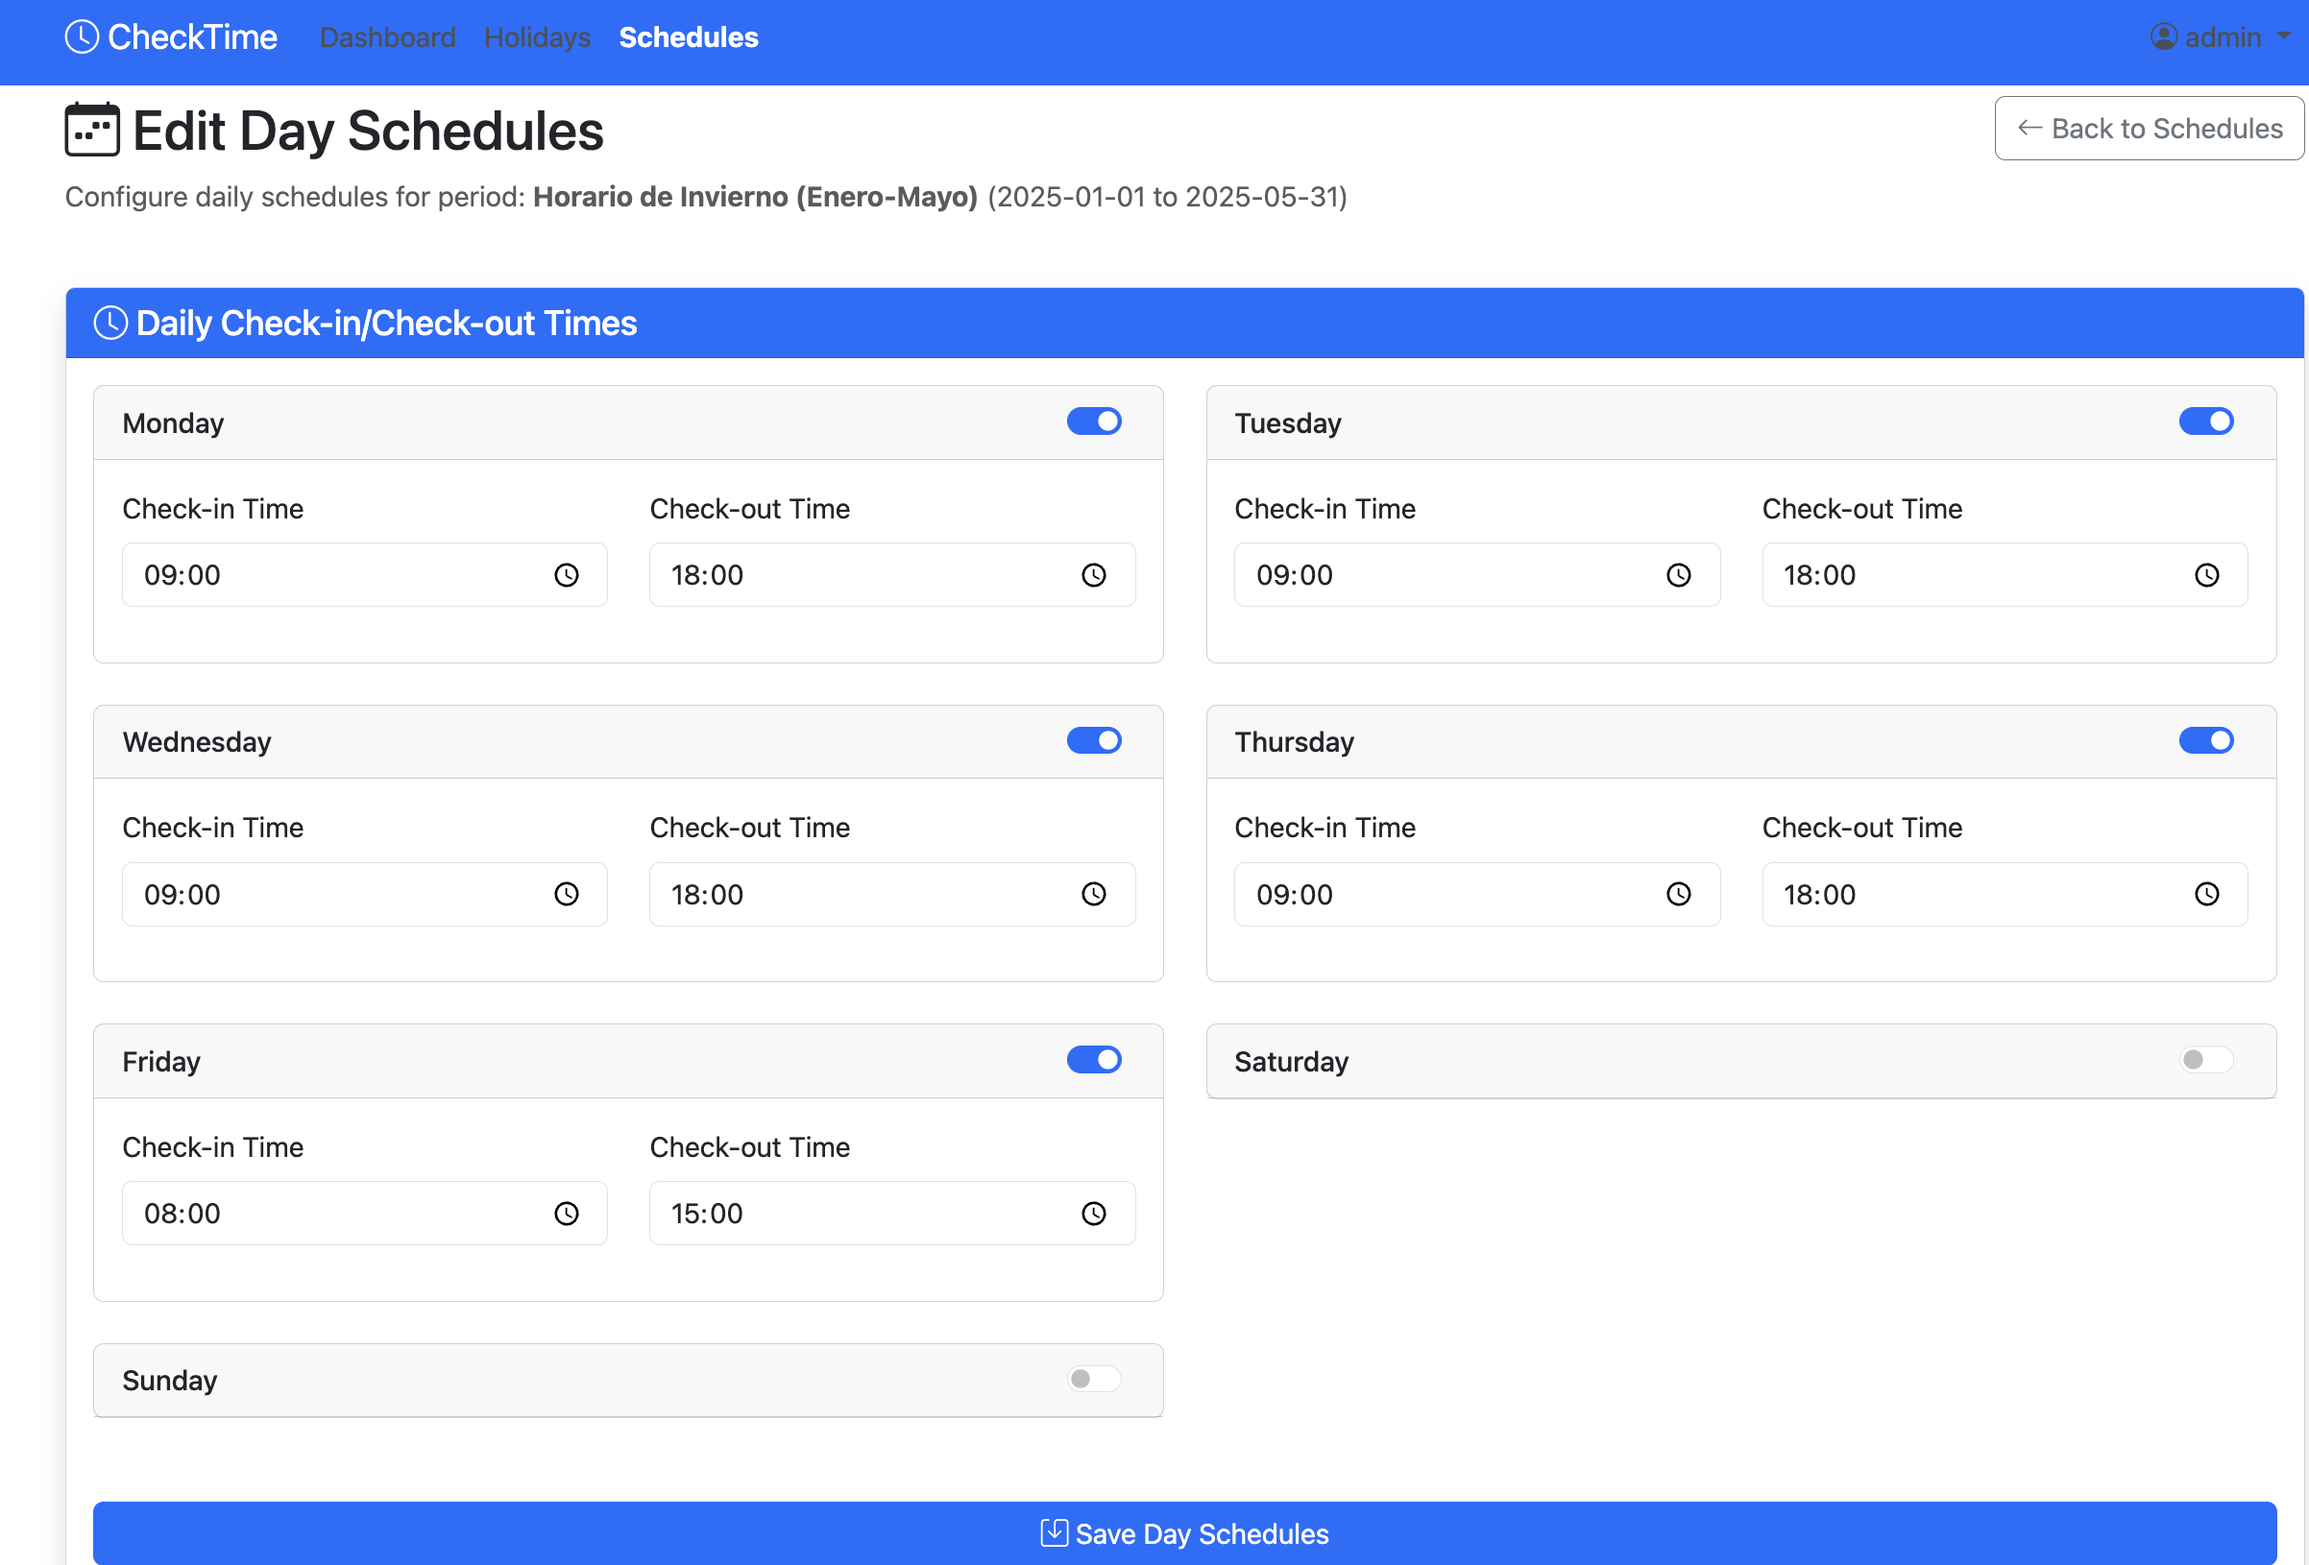
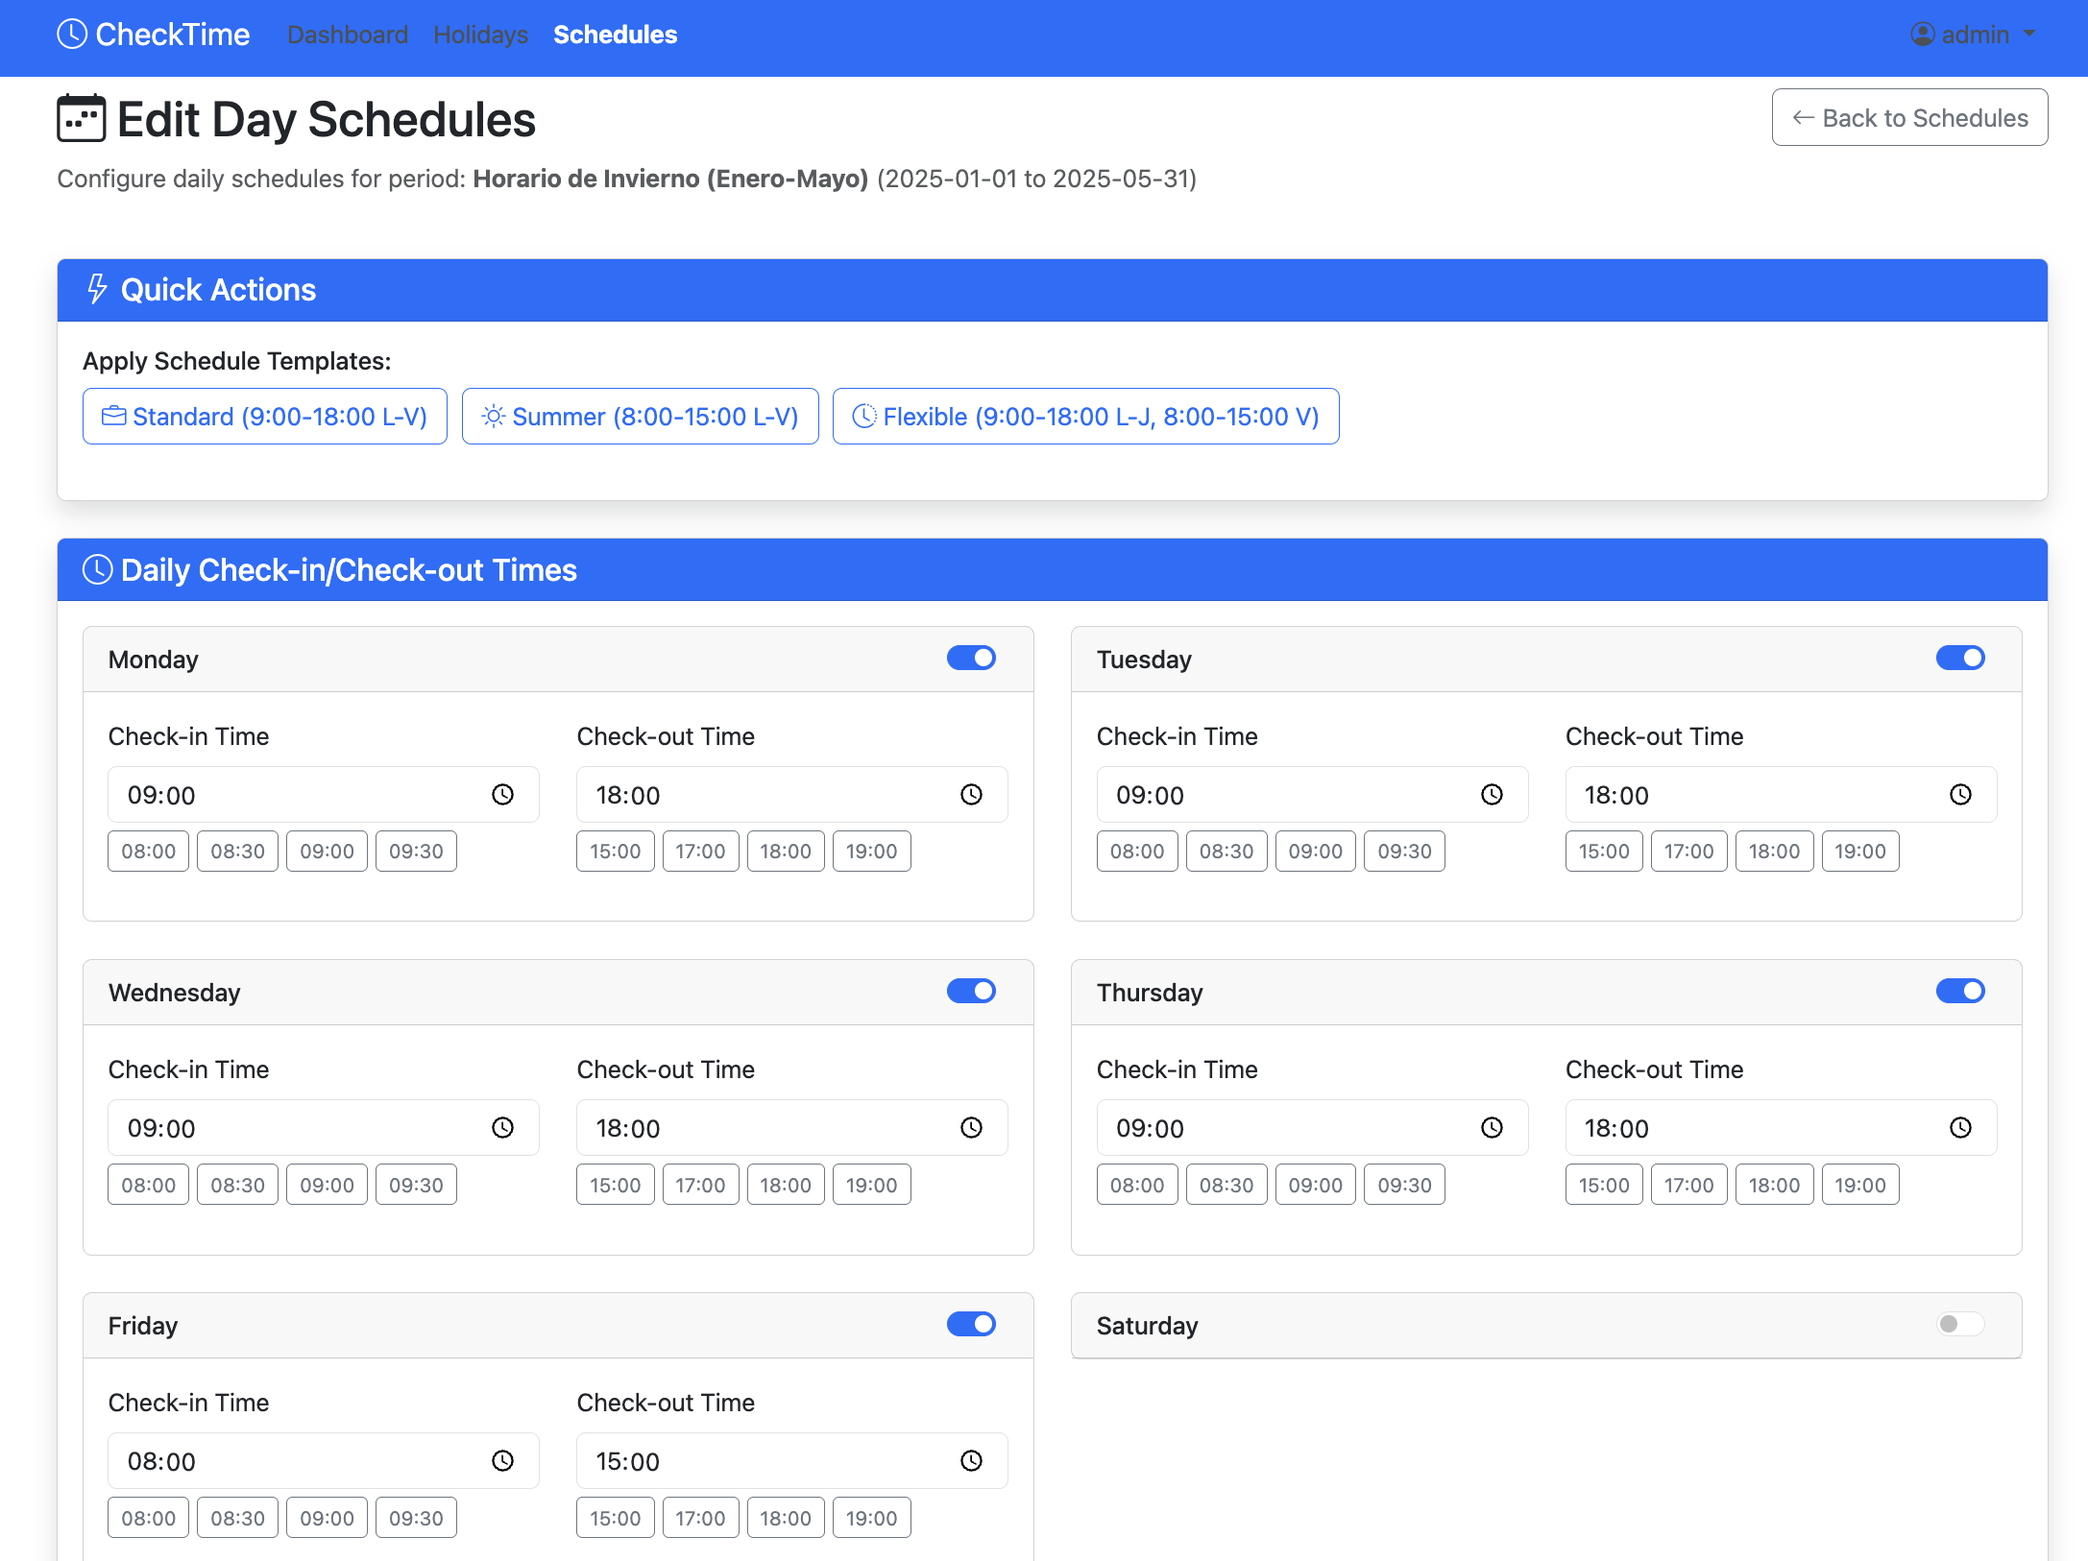
feat: enhance schedule editor with quick action buttons and time presets for check-in/check-out times

diff --git a/src/checktime/web/templates/schedules/edit_days.html b/src/checktime/web/templates/schedules/edit_days.html
@@ -2,6 +2,28 @@
 
 {% block title %}Edit Day Schedules - {{ super() }}{% endblock %}
 
+{% block styles %}
+<style>
+    .quick-actions {
+        margin-bottom: 15px;
+    }
+    .preset-btn {
+        margin-right: 5px;
+        margin-bottom: 5px;
+    }
+    .time-presets {
+        display: flex;
+        flex-wrap: wrap;
+        gap: 5px;
+        margin-top: 5px;
+    }
+    .time-preset-btn {
+        font-size: 0.8rem;
+        padding: 0.2rem 0.5rem;
+    }
+</style>
+{% endblock %}
+
 {% block content %}
 <div class="row mb-4">
     <div class="col">
@@ -20,6 +42,24 @@
 
 <div class="row">
     <div class="col-md-12">
+        <div class="card shadow mb-4">
+            <div class="card-header bg-primary text-white">
+                <h5 class="mb-0"><i class="bi bi-lightning"></i> Quick Actions</h5>
+            </div>
+            <div class="card-body quick-actions">
+                <h6>Apply Schedule Templates:</h6>
+                <button type="button" class="btn btn-outline-primary preset-btn" onclick="applyPreset('standard')">
+                    <i class="bi bi-briefcase"></i> Standard (9:00-18:00 L-V)
+                </button>
+                <button type="button" class="btn btn-outline-primary preset-btn" onclick="applyPreset('summer')">
+                    <i class="bi bi-sun"></i> Summer (8:00-15:00 L-V)
+                </button>
+                <button type="button" class="btn btn-outline-primary preset-btn" onclick="applyPreset('flexible')">
+                    <i class="bi bi-clock-history"></i> Flexible (9:00-18:00 L-J, 8:00-15:00 V)
+                </button>
+            </div>
+        </div>
+
         <div class="card shadow">
             <div class="card-header bg-primary text-white">
                 <h5 class="mb-0"><i class="bi bi-clock"></i> Daily Check-in/Check-out Times</h5>
@@ -48,12 +88,32 @@
                                             <input type="time" class="form-control" id="day_{{ day_idx }}_check_in" 
                                                    name="day_{{ day_idx }}_check_in" 
                                                    value="{{ day_schedules[day_idx].check_in_time if day_idx in day_schedules else '' }}">
+                                            <div class="time-presets">
+                                                <button type="button" class="btn btn-sm btn-outline-secondary time-preset-btn" 
+                                                        onclick="setTime('day_{{ day_idx }}_check_in', '08:00')">08:00</button>
+                                                <button type="button" class="btn btn-sm btn-outline-secondary time-preset-btn" 
+                                                        onclick="setTime('day_{{ day_idx }}_check_in', '08:30')">08:30</button>
+                                                <button type="button" class="btn btn-sm btn-outline-secondary time-preset-btn" 
+                                                        onclick="setTime('day_{{ day_idx }}_check_in', '09:00')">09:00</button>
+                                                <button type="button" class="btn btn-sm btn-outline-secondary time-preset-btn" 
+                                                        onclick="setTime('day_{{ day_idx }}_check_in', '09:30')">09:30</button>
+                                            </div>
                                         </div>
                                         <div class="col-md-6 mb-3">
                                             <label for="day_{{ day_idx }}_check_out" class="form-label">Check-out Time</label>
                                             <input type="time" class="form-control" id="day_{{ day_idx }}_check_out" 
                                                    name="day_{{ day_idx }}_check_out" 
                                                    value="{{ day_schedules[day_idx].check_out_time if day_idx in day_schedules else '' }}">
+                                            <div class="time-presets">
+                                                <button type="button" class="btn btn-sm btn-outline-secondary time-preset-btn" 
+                                                        onclick="setTime('day_{{ day_idx }}_check_out', '15:00')">15:00</button>
+                                                <button type="button" class="btn btn-sm btn-outline-secondary time-preset-btn" 
+                                                        onclick="setTime('day_{{ day_idx }}_check_out', '17:00')">17:00</button>
+                                                <button type="button" class="btn btn-sm btn-outline-secondary time-preset-btn" 
+                                                        onclick="setTime('day_{{ day_idx }}_check_out', '18:00')">18:00</button>
+                                                <button type="button" class="btn btn-sm btn-outline-secondary time-preset-btn" 
+                                                        onclick="setTime('day_{{ day_idx }}_check_out', '19:00')">19:00</button>
+                                            </div>
                                         </div>
                                     </div>
                                 </div>
@@ -63,7 +123,7 @@
                     </div>
                     
                     <div class="d-grid gap-2 mt-4">
-                        <button type="submit" class="btn btn-primary">
+                        <button type="submit" class="btn btn-primary btn-lg">
                             <i class="bi bi-save"></i> Save Day Schedules
                         </button>
                     </div>
@@ -90,6 +150,75 @@
         if (!checkbox.checked) {
             checkInInput.value = '';
             checkOutInput.value = '';
+        }
+    }
+
+    function setTime(inputId, timeValue) {
+        document.getElementById(inputId).value = timeValue;
+    }
+
+    function applySchedule(dayIndex, checkIn, checkOut) {
+        // Enable the day
+        const toggle = document.getElementById(`day_${dayIndex}_toggle`);
+        toggle.checked = true;
+        
+        // Show inputs
+        const inputs = document.getElementById(`day_${dayIndex}_inputs`);
+        inputs.style.display = 'block';
+        
+        // Set enabled flag
+        const enabled = document.getElementById(`day_${dayIndex}_enabled`);
+        enabled.value = 'on';
+        
+        // Set times
+        document.getElementById(`day_${dayIndex}_check_in`).value = checkIn;
+        document.getElementById(`day_${dayIndex}_check_out`).value = checkOut;
+    }
+
+    function applyPreset(presetName) {
+        switch (presetName) {
+            case 'standard':
+                // Standard workweek (9:00-18:00 Mon-Fri)
+                for (let i = 0; i < 5; i++) {
+                    applySchedule(i, '09:00', '18:00');
+                }
+                // Disable weekend
+                document.getElementById('day_5_toggle').checked = false;
+                document.getElementById('day_5_enabled').value = '';
+                document.getElementById('day_5_inputs').style.display = 'none';
+                document.getElementById('day_6_toggle').checked = false;
+                document.getElementById('day_6_enabled').value = '';
+                document.getElementById('day_6_inputs').style.display = 'none';
+                break;
+                
+            case 'summer':
+                // Summer schedule (8:00-15:00 Mon-Fri)
+                for (let i = 0; i < 5; i++) {
+                    applySchedule(i, '08:00', '15:00');
+                }
+                // Disable weekend
+                document.getElementById('day_5_toggle').checked = false;
+                document.getElementById('day_5_enabled').value = '';
+                document.getElementById('day_5_inputs').style.display = 'none';
+                document.getElementById('day_6_toggle').checked = false;
+                document.getElementById('day_6_enabled').value = '';
+                document.getElementById('day_6_inputs').style.display = 'none';
+                break;
+                
+            case 'flexible':
+                // Flexible schedule (9:00-18:00 Mon-Thu, 8:00-15:00 Fri)
+                for (let i = 0; i < 4; i++) {
+                    applySchedule(i, '09:00', '18:00');
+                }
+                applySchedule(4, '08:00', '15:00');
+                // Disable weekend
+                document.getElementById('day_5_toggle').checked = false;
+                document.getElementById('day_5_enabled').value = '';
+                document.getElementById('day_5_inputs').style.display = 'none';
+                document.getElementById('day_6_toggle').checked = false;
+                document.getElementById('day_6_enabled').value = '';
+                document.getElementById('day_6_inputs').style.display = 'none';
+                break;
         }
     }
 </script>
